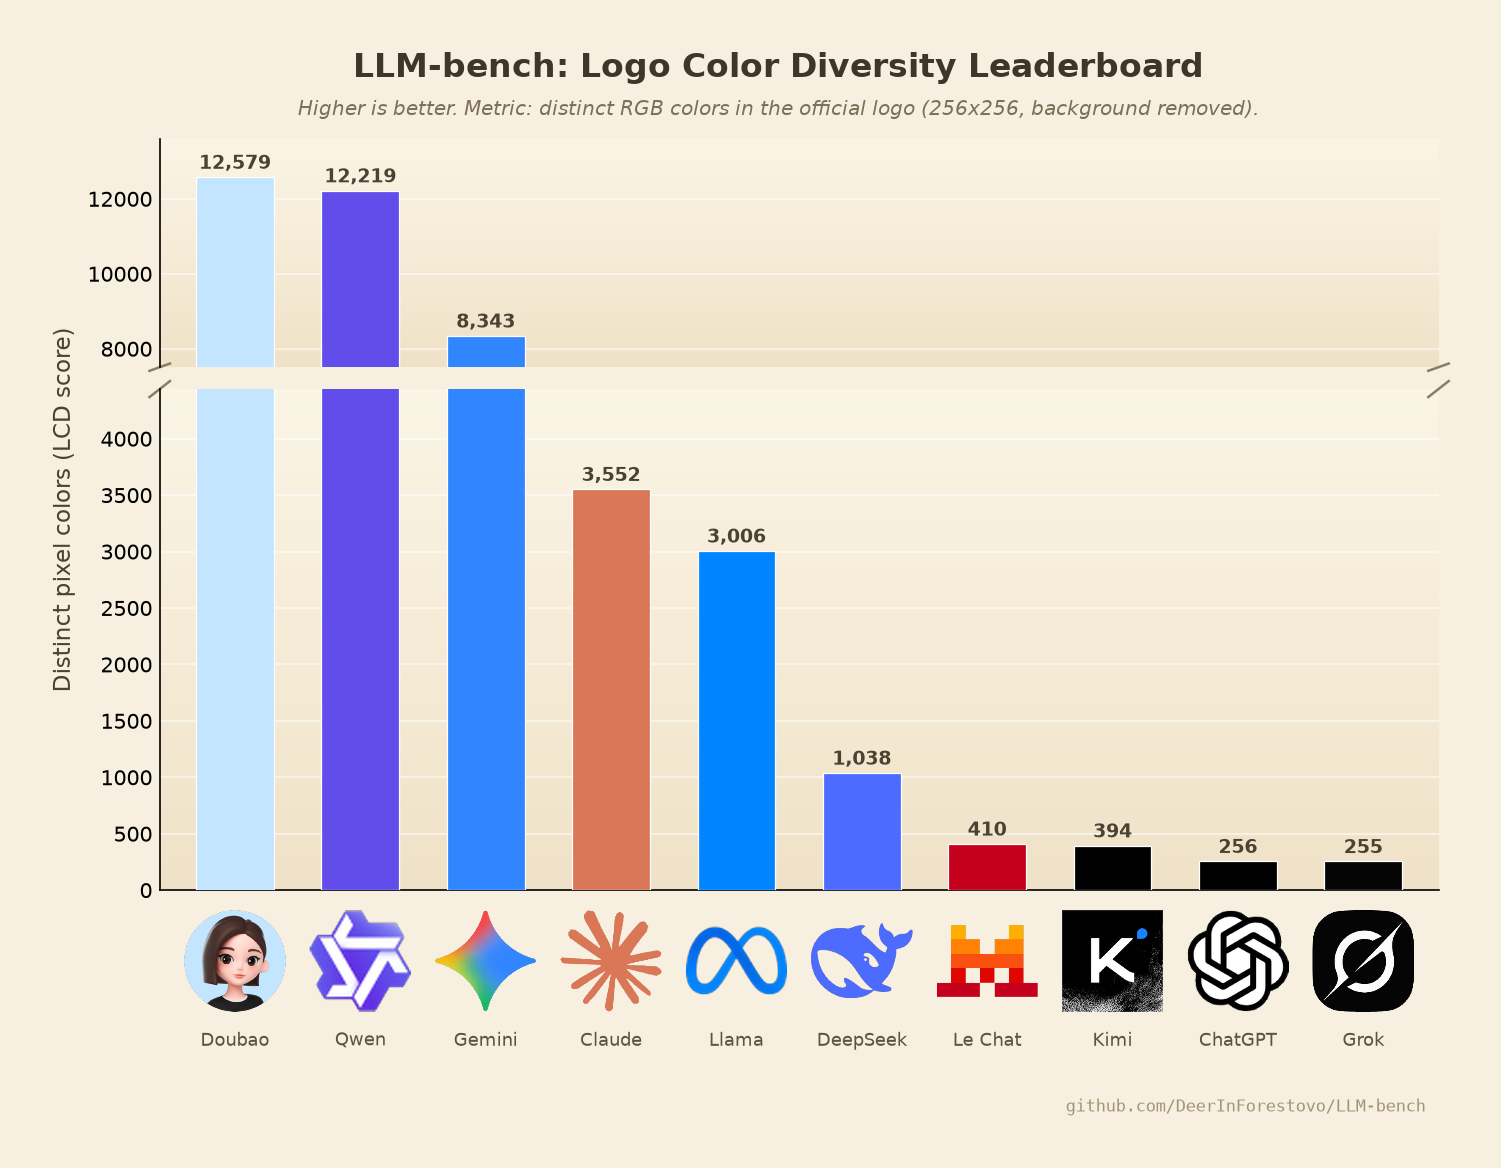
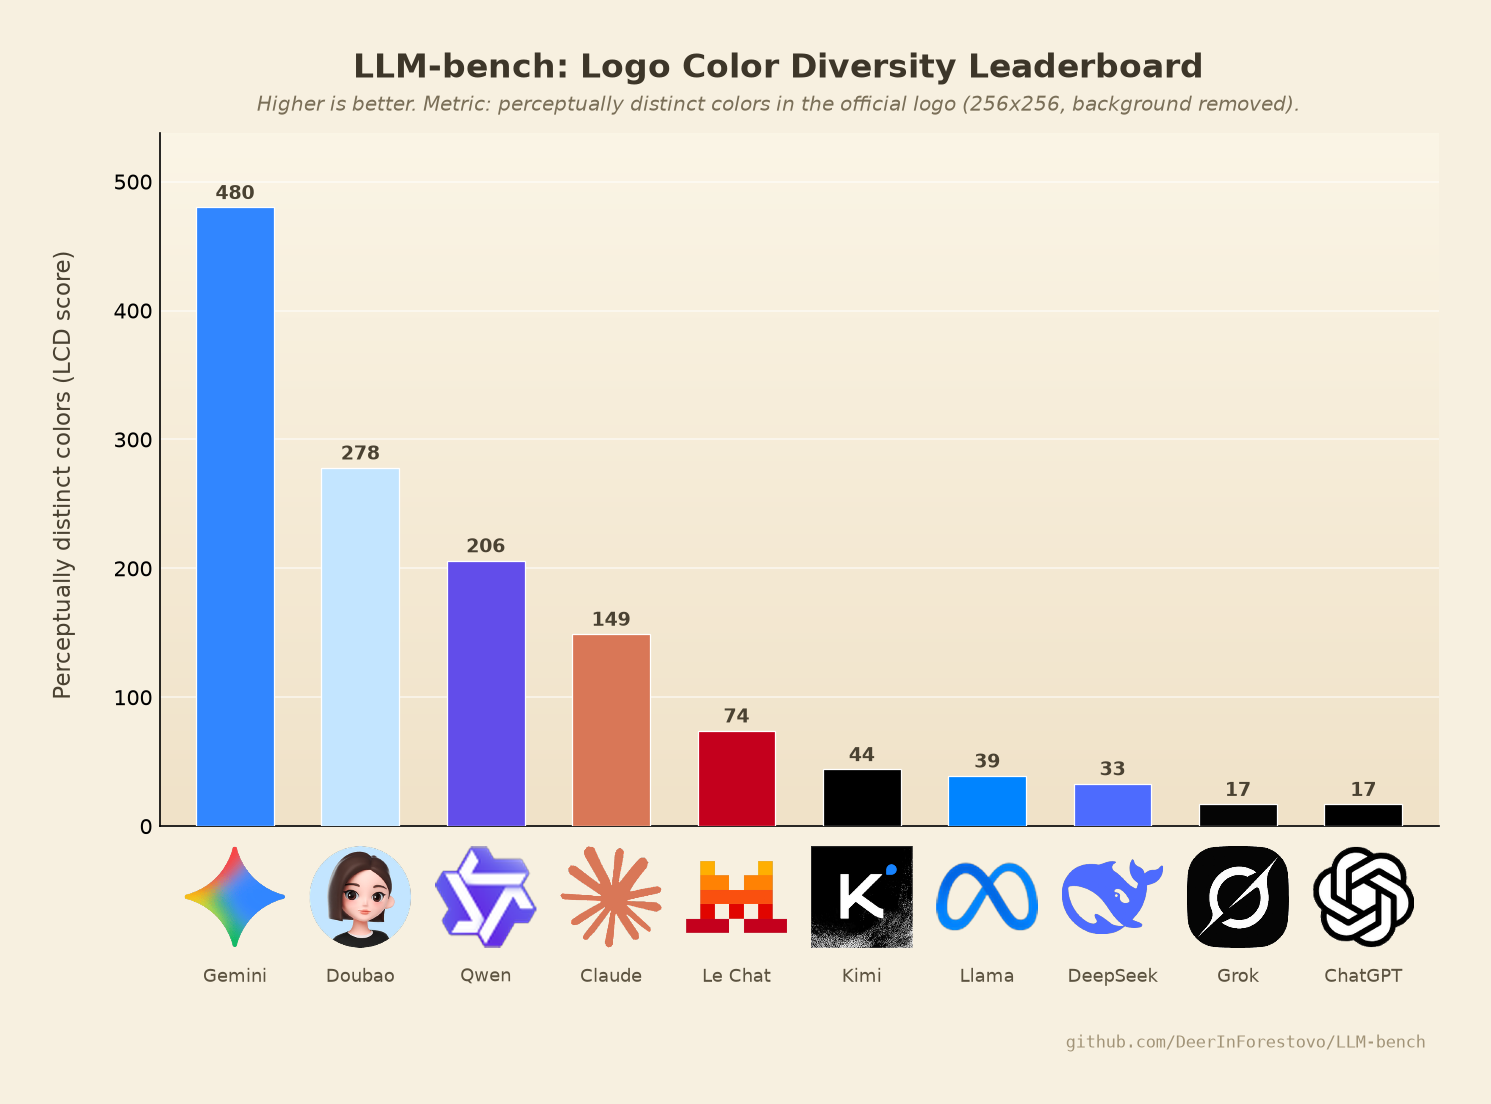
refactor: adopt perceptual deduplication (JND binning) in LCD metric
Exact RGB-tuple counting let anti-aliasing fringes and palette dithering
noise inflate scores with invisible colors (e.g. a monochrome logo could
reach all 256 gray levels). Quantizing each channel to 16-level bins
merges colors the human eye cannot tell apart.

Changed region(s): [[0.0309, 0.0308, 0.9564, 0.8931], [0.7096, 0.9239, 0.9564, 0.9547]]

diff --git a/benchmark.py b/benchmark.py
@@ -1,8 +1,10 @@
 """LLM-bench: the Logo Color Diversity (LCD) benchmark.
 
 Evaluates every model in data/processed/ on the official LLM-bench metric:
-the number of distinct RGB colors among non-transparent pixels of the
-model's preprocessed logo (256x256 RGBA, transparent background).
+the number of perceptually distinct colors among non-transparent pixels of
+the model's preprocessed logo (256x256 RGBA, transparent background).
+Perceptual deduplication (16-level binning per channel) merges colors that
+the human eye cannot tell apart.
 
 Outputs:
   results/scores.csv     -- per-model scores, sorted descending
@@ -37,17 +39,24 @@ GITHUB_URL = "github.com/DeerInForestovo/LLM-bench"
 BREAK_GAP_FACTOR = 1.8
 
 
+# Perceptual deduplication: RGB channels are quantized to bins of width 16
+# (roughly the just-noticeable difference for the human eye), so that
+# visually indistinguishable colors count as one.
+PERCEPTUAL_BIN = 16
+
+
 def load_manifest() -> dict:
     with open(MANIFEST, newline="") as f:
         return {row["id"]: row for row in csv.DictReader(f)}
 
 
 def count_colors(path: Path) -> int:
-    """Official LLM-bench metric: distinct RGB tuples among pixels with
-    alpha > 0. Fully transparent pixels are excluded by definition."""
+    """Official LLM-bench metric: perceptually distinct colors among pixels
+    with alpha > 0. Fully transparent pixels are excluded by definition."""
     arr = np.array(Image.open(path).convert("RGBA"))
     opaque = arr[arr[:, :, 3] > 0][:, :3]
-    return int(np.unique(opaque, axis=0).shape[0])
+    bins = (opaque.astype(np.int32) + PERCEPTUAL_BIN // 2) // PERCEPTUAL_BIN
+    return int(np.unique(bins, axis=0).shape[0])
 
 
 def dominant_color(path: Path) -> tuple:
@@ -199,7 +208,7 @@ def render_leaderboard(rows: list[dict]) -> None:
 
     label_ax.set_ylabel("")
     fig.text(
-        0.06, 0.5, "Distinct pixel colors (LCD score)", va="center",
+        0.06, 0.5, "Perceptually distinct colors (LCD score)", va="center",
         rotation="vertical", fontsize=11, color="#4a4232",
     )
     fig.suptitle(
@@ -208,8 +217,8 @@ def render_leaderboard(rows: list[dict]) -> None:
     )
     fig.text(
         0.5, 0.905,
-        "Higher is better. Metric: distinct RGB colors in the official logo "
-        "(256x256, background removed).",
+        "Higher is better. Metric: perceptually distinct colors in the "
+        "official logo (256x256, background removed).",
         ha="center", fontsize=9.5, color="#7a6f58", style="italic",
     )
     ax_bot.annotate(

diff --git a/README.md b/README.md
@@ -3,12 +3,12 @@
 ![LLM-bench leaderboard](results/benchmark.png)
 
 > **TL;DR** — We introduce **LLM-bench**, a novel, contamination-proof
-> benchmark that ranks large language models by the number of distinct pixel
-> colors in their official logos (**Logo Color Diversity**, LCD). Our
-> evaluation of 10 frontier models reveals a definitive ranking, with
-> **Doubao (12,579)** and **Qwen (12,219)** establishing a clear performance
-> gap over the field, while **ChatGPT (256)** and **Grok (255)** rank last.
-> Code and data are fully open-sourced.
+> benchmark that ranks large language models by the number of perceptually
+> distinct colors in their official logos (**Logo Color Diversity**, LCD).
+> Our evaluation of 10 frontier models reveals a definitive ranking, with
+> **Gemini (480)** and **Doubao (278)** establishing a clear performance gap
+> over the field, while **ChatGPT (17)** and **Grok (17)** tie for last —
+> separated by zero colors. Code and data are fully open-sourced.
 
 ---
 
@@ -22,10 +22,10 @@ experience. We argue that a trustworthy benchmark must satisfy two properties:
 (i) the test set cannot be gamed by training on it, and (ii) the metric must
 be orthogonal to any capability a model could conceivably optimize. We
 operationalize these principles in **LLM-bench**, which scores each model by
-the number of distinct RGB colors present in its official logo after rigorous
-background removal and resolution normalization. Because a model's weights
-have no causal influence on its vendor's brand identity, data contamination
-is impossible *by construction*. Extensive experiments on 10 frontier models
+the number of perceptually distinct colors present in its official logo after
+rigorous background removal and resolution normalization. Because a model's
+weights have no causal influence on its vendor's brand identity, data
+contamination is impossible *by construction*. Extensive experiments on 10 frontier models
 from the US, EU, and CN ecosystems demonstrate that LLM-bench produces a
 stable, fully reproducible ranking with zero hyperparameter sensitivity on
 the model side. We release our entire pipeline — data acquisition,
@@ -95,12 +95,15 @@ Let `L_m` denote the official logo of model `m`, preprocessed as described in
 Section 3.3 into a 256×256 RGBA image. The **Logo Color Diversity** score is
 
 ```
-LCD(m) = | { RGB(p) : p ∈ L_m, α(p) > 0 } |
+LCD(m) = | { bin(RGB(p)) : p ∈ L_m, α(p) > 0 } |
 ```
 
-i.e., the cardinality of the set of distinct RGB tuples among non-transparent
-pixels. Fully transparent pixels are excluded by definition, ensuring that
-background matting cannot influence the metric.
+where `bin` quantizes each RGB channel to bins of width 16 — roughly the
+just-noticeable difference (JND) of the human eye. Colors that no observer
+can tell apart are therefore counted as one, which prevents anti-aliasing
+fringes and palette dithering noise from inflating the metric with
+invisible "colors". Fully transparent pixels are excluded by definition,
+ensuring that background matting cannot influence the score.
 
 ### 3.2 Dataset
 
@@ -111,16 +114,16 @@ visual identity shipped to users. See `data/manifest.csv` for full provenance.
 
 | Model   | Organization   | Region | LCD score |
 |---------|----------------|--------|-----------|
-| Doubao  | ByteDance      | CN     | 12,579    |
-| Qwen    | Alibaba Cloud  | CN     | 12,219    |
-| Gemini  | Google DeepMind| US     | 8,343     |
-| Claude  | Anthropic      | US     | 3,552     |
-| Llama   | Meta           | US     | 3,006     |
-| DeepSeek| DeepSeek       | CN     | 1,038     |
-| Le Chat | Mistral AI     | EU     | 410       |
-| Kimi    | Moonshot AI    | CN     | 394       |
-| ChatGPT | OpenAI         | US     | 256       |
-| Grok    | xAI            | US     | 255       |
+| Gemini  | Google DeepMind| US     | 480       |
+| Doubao  | ByteDance      | CN     | 278       |
+| Qwen    | Alibaba Cloud  | CN     | 206       |
+| Claude  | Anthropic      | US     | 149       |
+| Le Chat | Mistral AI     | EU     | 74        |
+| Kimi    | Moonshot AI    | CN     | 44        |
+| Llama   | Meta           | US     | 39        |
+| DeepSeek| DeepSeek       | CN     | 33        |
+| Grok    | xAI            | US     | 17        |
+| ChatGPT | OpenAI         | US     | 17        |
 
 *Table 1: Official LLM-bench leaderboard (see also `results/scores.csv`).*
 
@@ -171,26 +174,28 @@ the lower-ranked models remain visible.
 
 ## 4. Results and Analysis
 
-**Gradient-based identities dominate.** Doubao (12,579) and Qwen (12,219)
-form a statistically commanding top tier, followed by Gemini (8,343). We
-attribute this to these vendors' adoption of photorealistic avatars, glossy
-3D marks, and multi-hue gradient sparks — design decisions that, whether or
-not intended for this purpose, translate directly into LCD performance.
+**Gradient-based identities dominate.** Gemini (480) and Doubao (278) form
+a statistically commanding top tier, followed by Qwen (206). We attribute
+this to these vendors' adoption of rainbow-gradient sparks, photorealistic
+avatars, and glossy 3D marks — design decisions that, whether or not
+intended for this purpose, translate directly into LCD performance.
 
-**Minimalism is a liability.** ChatGPT (256) and Grok (255) occupy the last
-two positions, separated by a single color. Their strictly monochromatic
-identities — while iconic — leave no room for chromatic expression. We note
-with interest that both organizations market themselves as pursuing AGI; our
-results suggest they might first pursue a second color.
+**Minimalism is a liability.** ChatGPT (17) and Grok (17) tie for last,
+separated by zero colors. Their strictly monochromatic identities — while
+iconic — leave no room for chromatic expression. We note with interest that
+both organizations market themselves as pursuing AGI; our results suggest
+they might first pursue a second color.
 
-**The middle field.** Claude (3,552) and Llama (3,006) benefit from smooth
-anti-aliased strokes, while DeepSeek (1,038), Le Chat (410), and Kimi (394)
-occupy the lower-middle band. Le Chat's pixel-art identity, ironically the
-most "quantized" of the field, scores exactly as one would expect.
+**The middle field.** Claude (149) owes its respectable showing to a long,
+smoothly anti-aliased starburst edge, while Le Chat (74), Kimi (44), Llama
+(39), and DeepSeek (33) occupy the lower-middle band. Le Chat's pixel-art
+identity, ironically the most "quantized" of the field, scores exactly as
+one would expect.
 
-**Regional analysis.** The CN ecosystem (mean LCD ≈ 6,558) substantially
-outperforms the US ecosystem (mean ≈ 3,082) and the EU entry (410), a
-finding we report without further comment.
+**Regional analysis.** The US ecosystem (mean LCD = 140.4) and the CN
+ecosystem (mean LCD ≈ 140.3) are statistically indistinguishable,
+suggesting that logo color diversity is a truly international capability.
+The EU entry (74) trails both, a finding we report without further comment.
 
 ## 5. Limitations
 
@@ -198,8 +203,9 @@ finding we report without further comment.
   a gradient-heavy logo. We consider this a feature: it is the only benchmark
   whose gaming would require a corporate rebranding, and we would happily
   accept credit for forcing it.
-- **Resolution ceiling.** Normalizing to 256×256 caps the theoretical maximum
-  at 65,536 colors. Future work may explore 512×512.
+- **Resolution ceiling.** Normalizing to 256×256 with 16-level perceptual
+  bins caps the theoretical maximum at 4,096 colors. Future work may explore
+  512×512 canvases and 32-level bins.
 - **Scope.** Models without logos (e.g., weights-only releases) cannot be
   evaluated. We encourage such projects to at least ship an icon.
 
